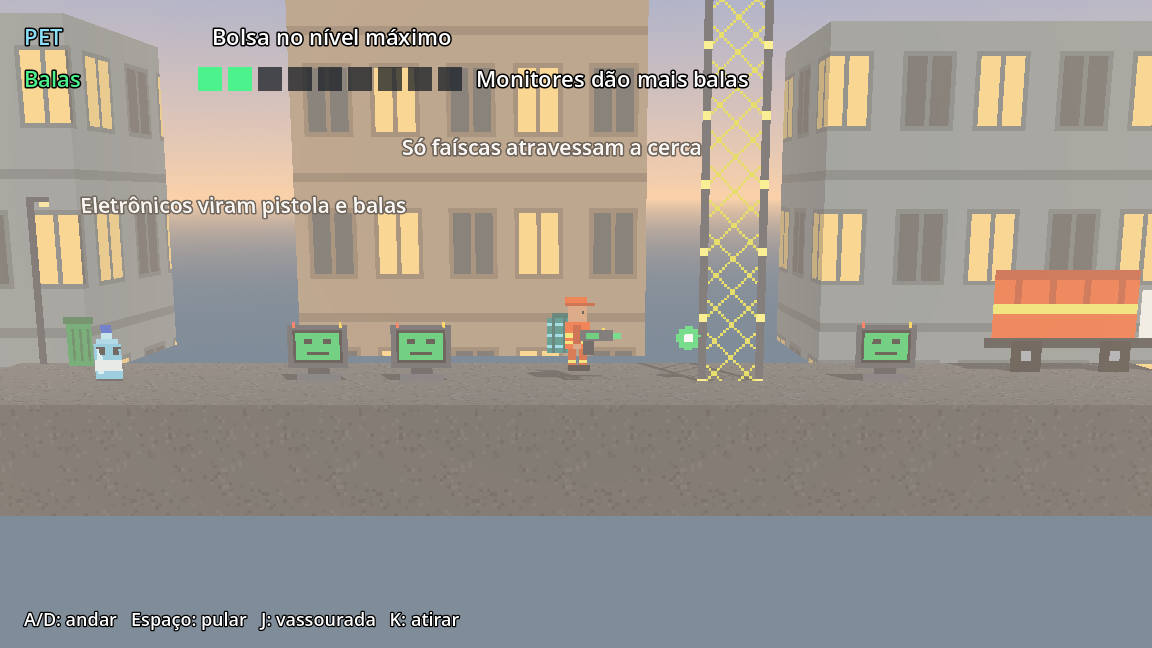
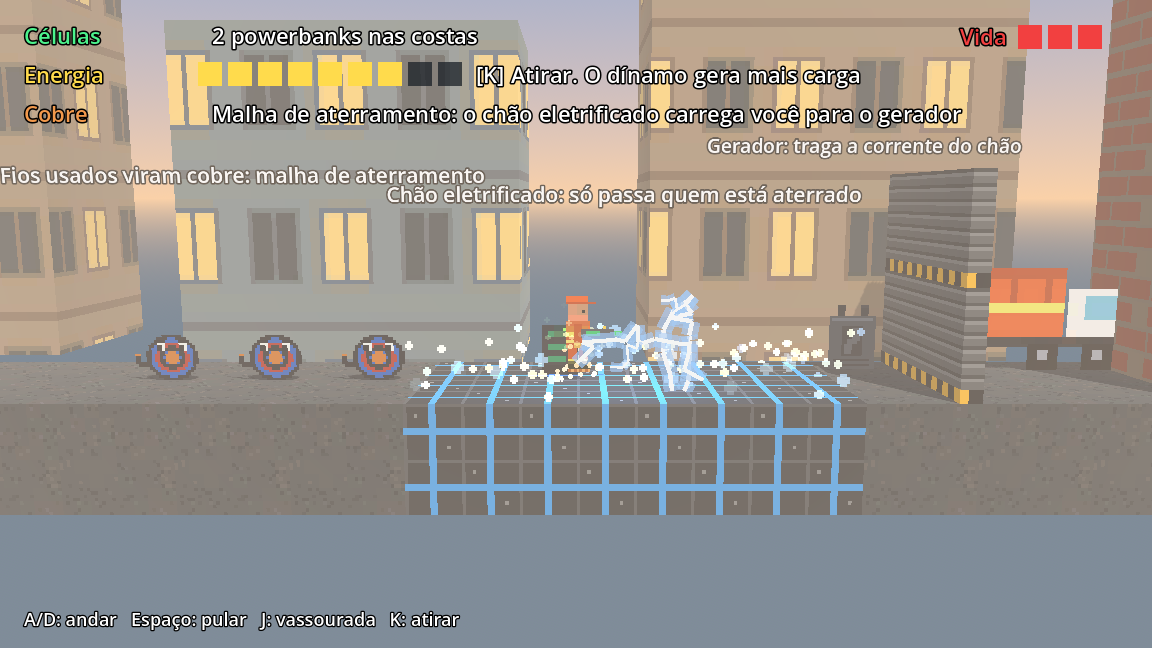
Atualiza o README com o jogo atual e a reciclagem real

diff --git a/README.md b/README.md
@@ -4,7 +4,7 @@ Plataforma 2.5D feito na Godot, em que um gari reaproveita os próprios inimigos
 
 > Protótipo jogável com uma fase curta.
 
-![Gari diante da cerca, atirando uma faísca com a pistola](docs/captura.png)
+![Gari com a malha de aterramento atravessando o chão eletrificado, cercado de raios, com o gerador, o portão e o caminhão de lixo ao fundo](docs/captura.png)
 
 ## Como rodar
 
@@ -56,9 +56,23 @@ O primeiro comando só é necessário depois de baixar o projeto ou quando a art
 5. Derrote os fios usados e, com 3 cobres, faça a malha de aterramento.
 6. Atravesse o chão eletrificado com a malha. Ela leva a corrente até o gerador, que abre o portão do caminhão de lixo.
 
-Na primeira vez que você monta cada item, uma apresentação mostra como aquele material é reciclado de verdade.
-
 Você tem 3 pontos de vida. Encoste nos ecopontos verdes para recuperar a vida e marcar o local de retorno. Ao perder toda a vida, você volta ao último ecoponto sem perder o que coletou.
+
+## Inimigos e reciclagem real
+
+Cada inimigo é um tipo de lixo, e cada item segue um reaproveitamento que existe de verdade.
+
+| Inimigo | Ataque | Deixa | Vira | Na vida real |
+|---|---|---|---|---|
+| Notebook | Contato | Célula 18650 | Powerbank | Células boas de baterias descartadas são testadas e reaproveitadas em powerbanks e lanternas |
+| Micro-ondas | Atira ondas | Motor | Pistola-dínamo | O motor do prato funciona como gerador de manivela |
+| Fios usados | Chicotada elétrica | Cobre | Malha de aterramento | O cobre é desencapado e reciclado muitas vezes sem perder qualidade |
+
+Na primeira vez que você monta cada item, o jogo pausa e mostra como aquele material é reciclado de verdade, com um cuidado de segurança real.
+
+![Apresentação do powerbank: notebook, célula 18650 e powerbank, com o uso real e um aviso sobre células de lítio](docs/apresentacao.png)
+
+As fontes de cada informação estão em [`cerebro/reciclagem.md`](cerebro/reciclagem.md).
 
 ## Organização
 
